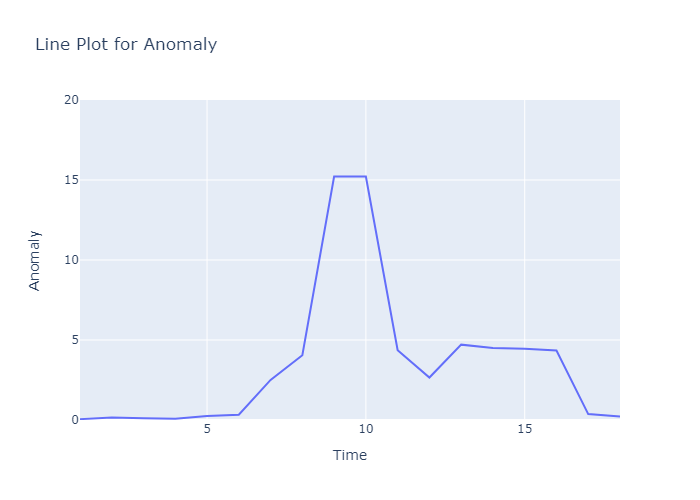
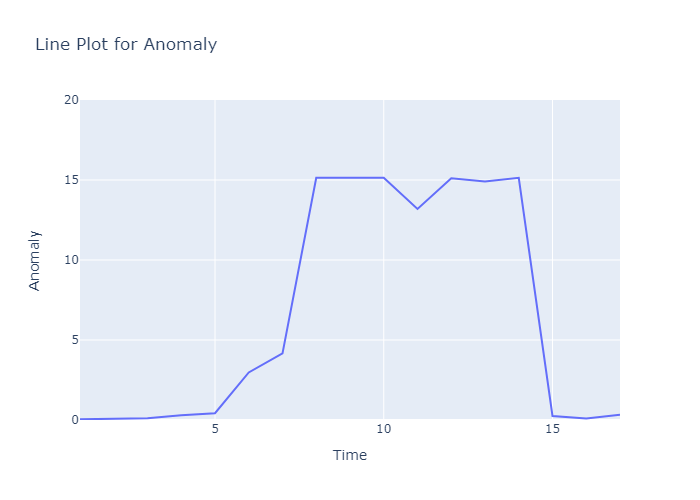
head processes v2

diff --git a/HeadOscillation/head.py b/HeadOscillation/head.py
@@ -256,9 +256,13 @@ class Head():
             os.mkdir(FOLDER_PATH)
             
         file_path = os.path.join(FOLDER_PATH, )
-        with open(file_path, "w") as json_file:
-            json.dump(result_dict, json_file, indent = 4)
-            self.logger.info(f"Json results was saved successfully into {FOLDER_PATH}")
+        # with open(file_path, "w") as json_file:
+        #     json.dump(result_dict, json_file, indent = 4)
+        #     self.logger.info(f"Json results was saved successfully into {FOLDER_PATH}")
+        
+        # assign head score
+        self.head_score = result_dict
+        self.logger.info("Score is save into class's head score property.")
         
         # Save Draw settings
         self.draw_plot(plot_dict=plot_dict, name = name)

diff --git a/temp.py b/temp.py
@@ -7,6 +7,8 @@ ADHD_Class = EyeDetection.ADHD_Calculation(video_path= './EyeDetection/VideoExam
 
 import HeadOscillation
 
-Head_class = HeadOscillation.Head(video_path="./HeadOscillation/HeadVideos/Anomaly.mp4")
+Head_class = HeadOscillation.Head(video_path="./HeadOscillation/HeadVideos/DEHB.mp4")
 
-Head_class.detect_video(name = "Anomaly")
+Head_class.detect_video(name = "DEHB")
+
+print(Head_class.head_score)

diff --git a/SpeehSpeed/speech_speed.py b/SpeehSpeed/speech_speed.py
@@ -1,0 +1,2 @@
+import pandas as pd
+
